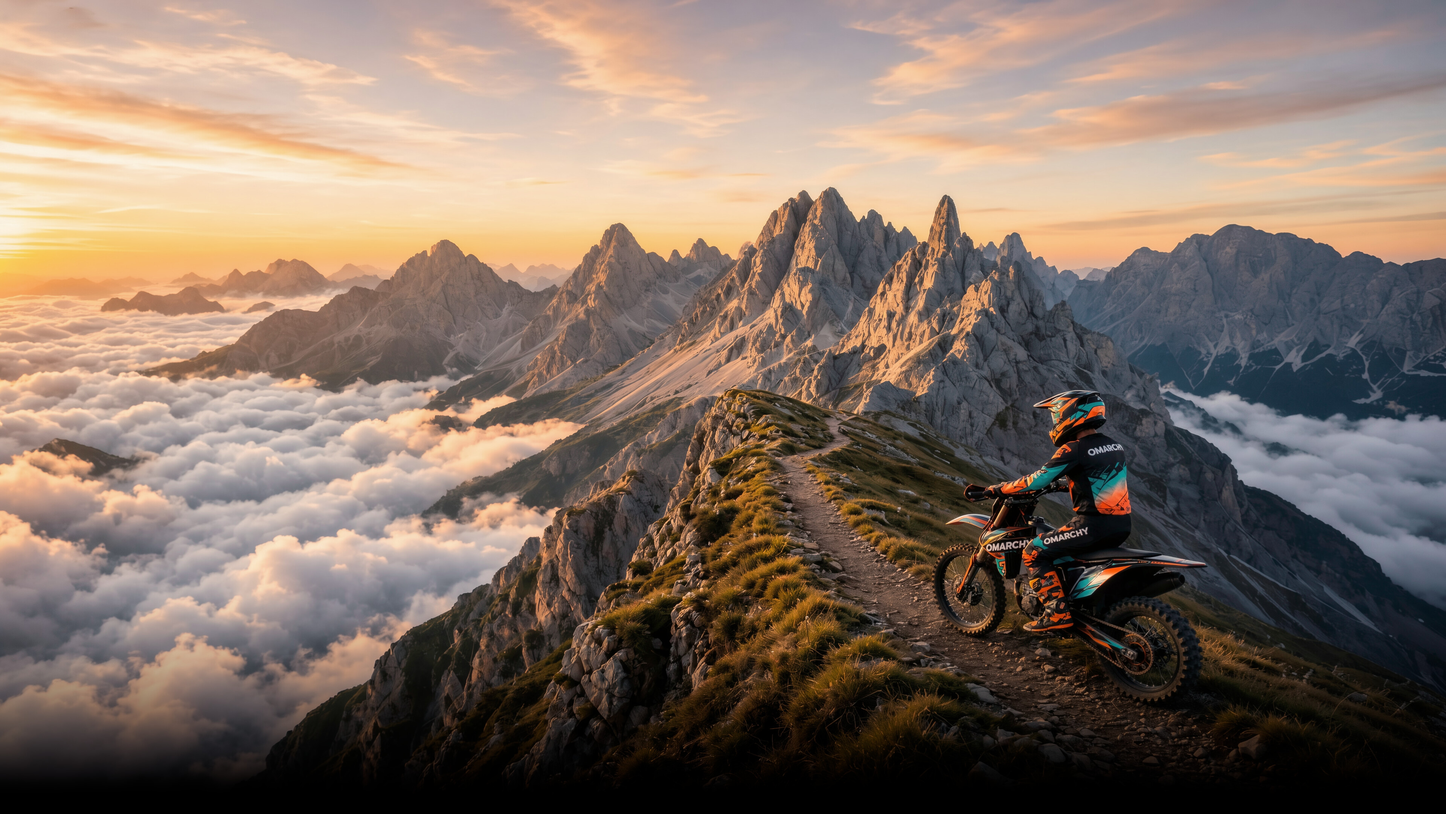
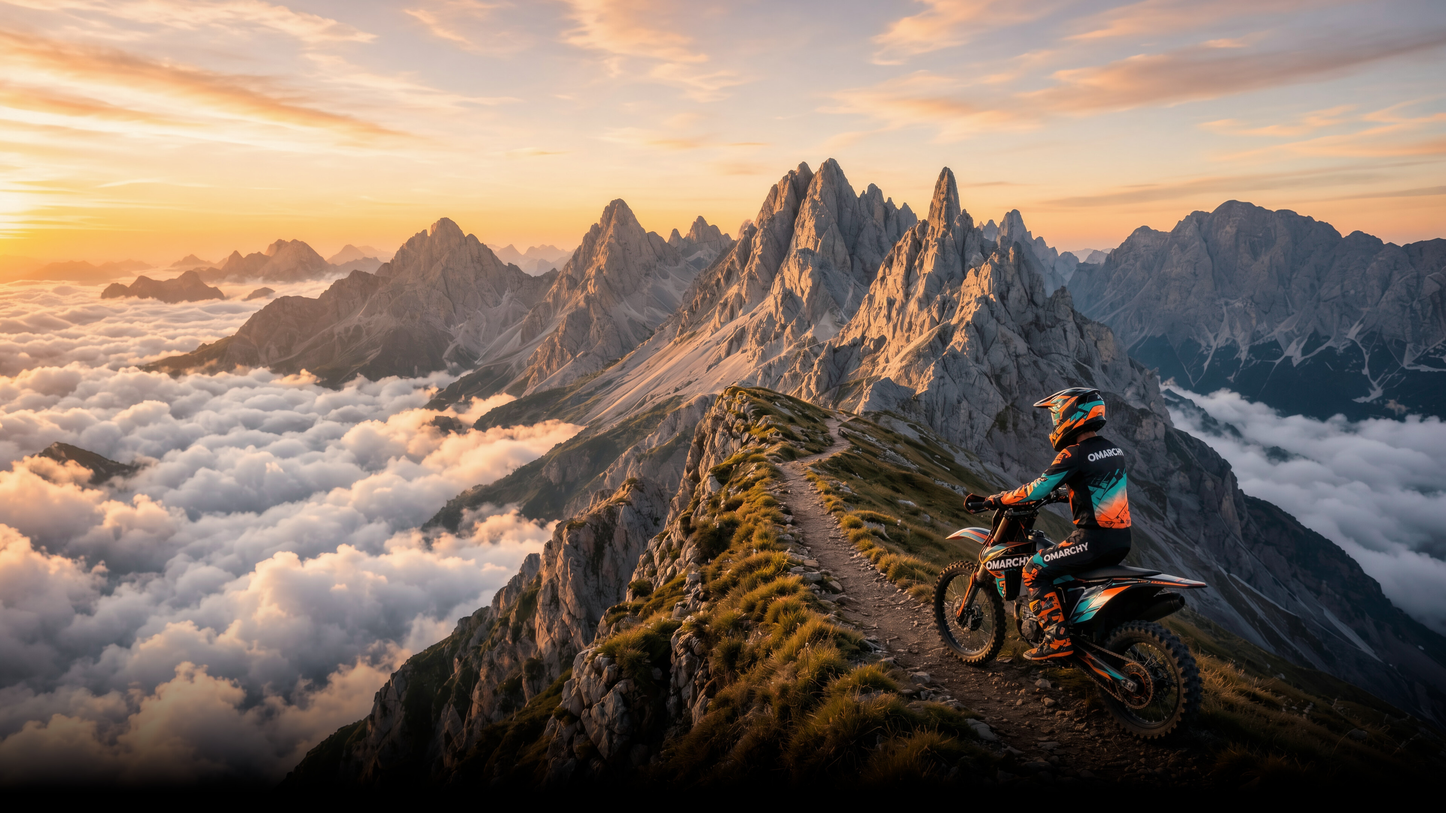
Undo FLUX's sideways stretch in the Wheelie stills
FLUX widened the 3:2 composition drafts to 16:9 by stretching them, 9-18%
sideways, so the bikes looked long and low. Each still is narrowed back to
its draft's proportions and trimmed top and bottom to 16:9; all stay above
4K before the resize.

diff --git a/themes/wheelie/README.md b/themes/wheelie/README.md
@@ -52,7 +52,7 @@ switcher.
 The static scenes show the same rider and livery in wide landscapes. Ridge and night camp have a
 baked black bottom vignette for the bar; the highlands' black sand is already dark there. The
 smooth fade runs from 72% to 98% of the image height, starting up to 6% earlier at the corners.
-Every static background ships resized to 4K (3840 × 2162) at JPEG quality 90.
+Every static background ships resized to 4K (3840 × 2160) at JPEG quality 90.
 
 | Background | Scene |
 |---|---|
@@ -123,7 +123,8 @@ scripts/build-shaders.sh themes/wheelie/scene/*.{frag,vert}
 - Wheel sprites, rim finish, and chain material: OpenAI's gpt-image.
 - Static backgrounds: 5456×3072 outputs from `black-forest-labs/flux-3-image`, 4K, 16:9, from a
   composition draft and the scene's rider as references. Stray lettering was removed in small
-  `google/gemini-3-pro-image` patches; then the bottom vignette, then resized like the others.
+  `google/gemini-3-pro-image` patches. FLUX stretched the 3:2 drafts to 16:9, so each was narrowed back
+  (by 9–18%) and trimmed top and bottom; then the bottom vignette, then resized like the others.
 
 Contact shadows and lighting are code-defined. All of the images are AI-generated, and each
 static background's metadata says so (IPTC `trainedAlgorithmicMedia`) and names the model.
